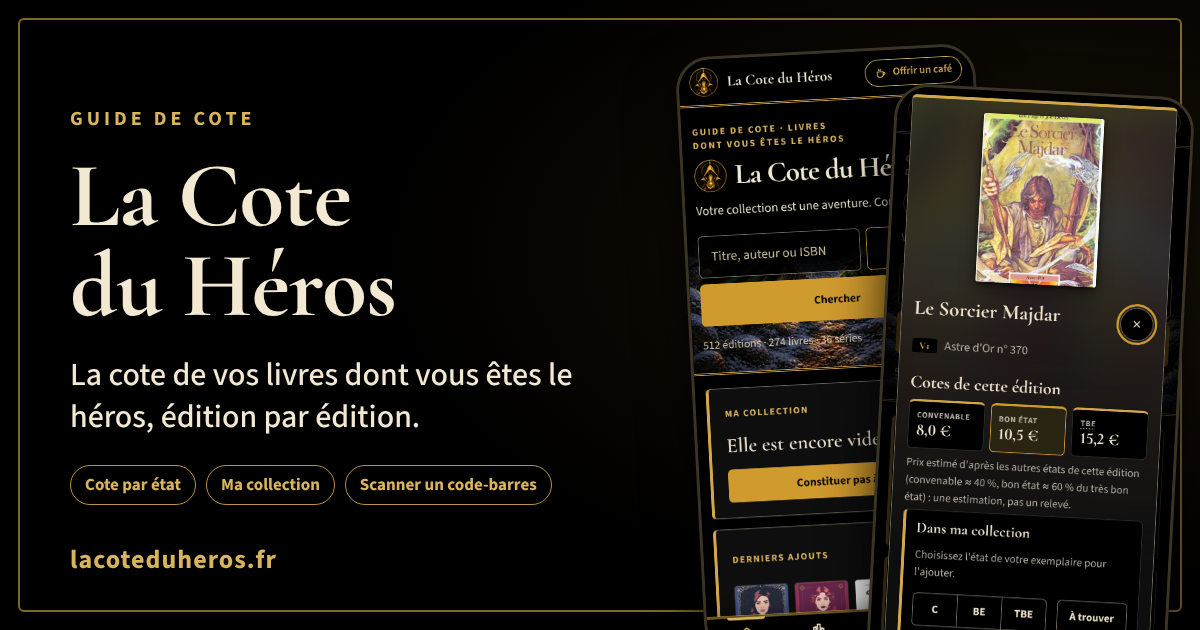
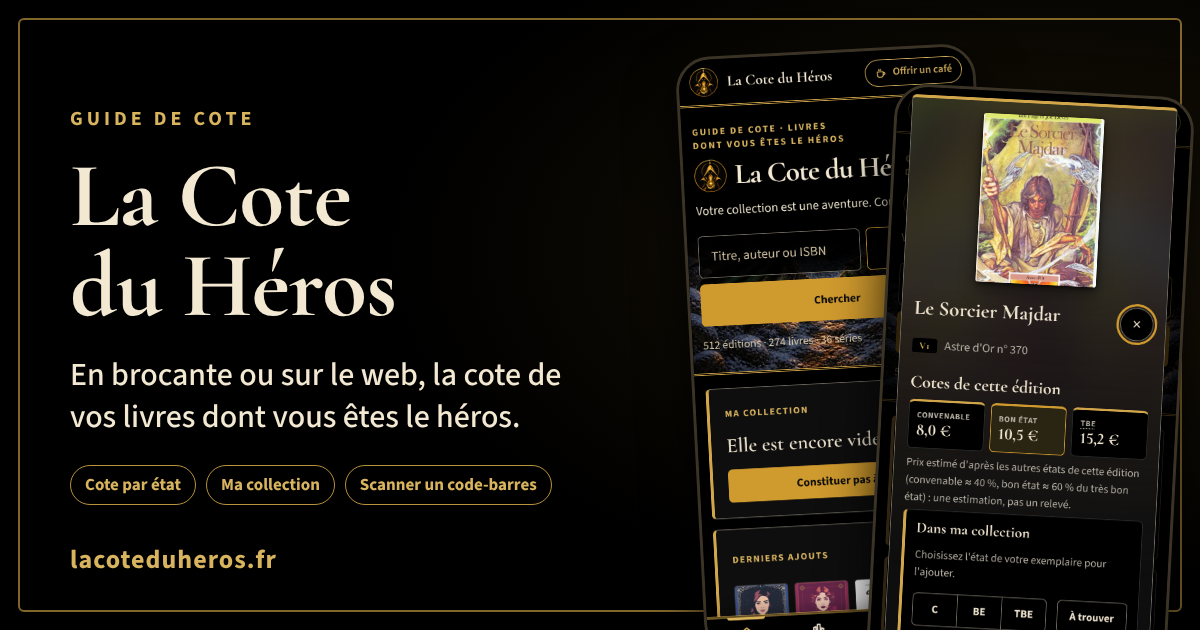
Image de partage et description : « En brocante ou sur le web »
Claude-Session: https://claude.ai/code/session_01HVd7MhtHVDZ6fuRMUSL3Pf

Changed region(s): [[0.0617, 0.573, 0.4933, 0.6937]]

diff --git a/web/sw.js b/web/sw.js
@@ -1,7 +1,7 @@
 /* Service worker de La Cote du Héros : l'application s'ouvre sans réseau.
    - pages, scripts, styles, données : réseau d'abord (toujours la version à jour), copie locale en secours ;
    - jaquettes, polices, icônes : copie locale d'abord (elles ne changent pas). */
-const VERSION = 'cdh-v255';
+const VERSION = 'cdh-v256';
 const COEUR = ['./', 'index.html', 'app.js', 'notes.js', 'plus.js', 'installer.js', 'pages.js', 'collection.html', 'le-projet.html', 'confidentialite.html', 'mentions-legales.html', 'evolutions.html', 'style.css', 'manifest.webmanifest', 'data/versions.json', 'data/meta.json', 'data/mouvements.json',
   'fonts/cormorant-garamond.woff2', 'fonts/cormorant-garamond-italic.woff2', 'fonts/source-sans-3.woff2',
   'icons/icon-192.png', 'icons/apple-touch-icon.png', 'favicon-32.png'];

diff --git a/web/index.html b/web/index.html
@@ -9,7 +9,7 @@
 <meta property="og:site_name" content="La Cote du Héros">
 <meta property="og:locale" content="fr_FR">
 <meta property="og:title" content="La Cote du Héros — guide de cote des livres-jeux">
-<meta property="og:description" content="Le guide gratuit de la cote des livres dont vous êtes le héros : prix par état, ma collection, scan de code-barres.">
+<meta property="og:description" content="En brocante ou sur le web, la cote de vos livres dont vous êtes le héros : prix par état, ma collection, scan de code-barres.">
 <meta property="og:image" content="https://lacoteduheros.fr/images/partage.png">
 <meta property="og:image:width" content="1200">
 <meta property="og:image:height" content="630">
